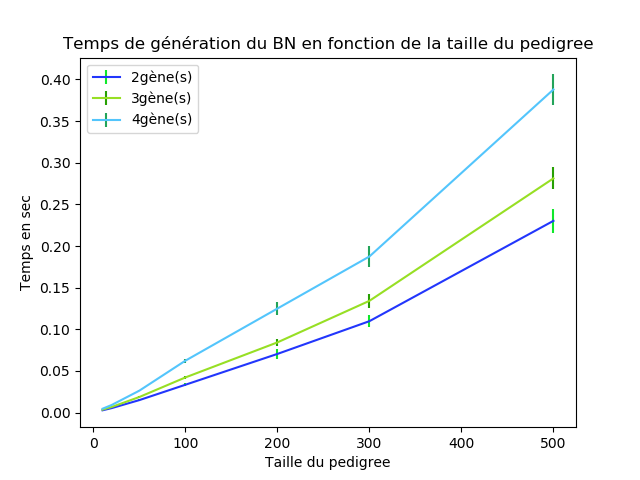
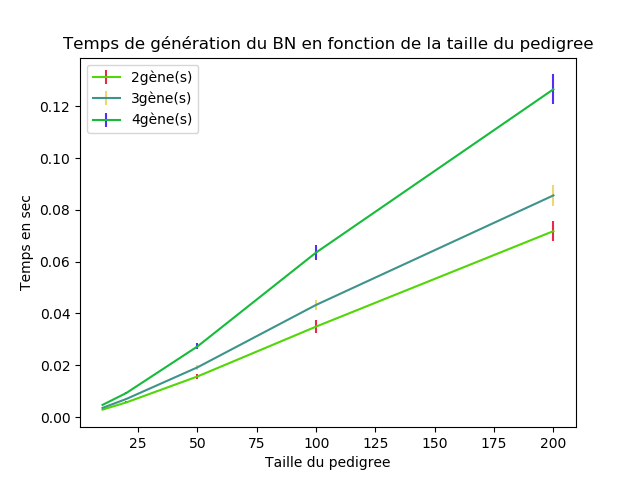
test for 2 genes

diff --git a/cplex/data/multi/read_file.py b/cplex/data/multi/read_file.py
@@ -24,33 +24,34 @@ def file_to_data(file,g):
         tab_2 = []
         tab_3 = []
         tab_4 = []
+        last_line = data[-1]
         for line in data:
-            if line == '-\n':
-                array_2 = np.array(tab_2)
-                array_3 = np.array(tab_3)
-                array_4 = np.array(tab_4)
+            if line == '-\n' or line==last_line:
+                if len(tab_2) != 0 and len(tab_3) != 0 and len(tab_4) != 0:
+                    array_2 = np.array(tab_2)
+                    array_3 = np.array(tab_3)
+                    array_4 = np.array(tab_4)
 
-                mean_res[2].append(array_2.mean())
-                mean_res[3].append(array_3.mean())
-                mean_res[4].append(array_4.mean())
+                    mean_res[2].append(array_2.mean())
+                    mean_res[3].append(array_3.mean())
+                    mean_res[4].append(array_4.mean())
 
-                max_res[2].append(array_2.max())
-                max_res[3].append(array_3.max())
-                max_res[4].append(array_4.max())
+                    max_res[2].append(array_2.max())
+                    max_res[3].append(array_3.max())
+                    max_res[4].append(array_4.max())
 
-                min_res[2].append(array_2.min())
-                min_res[3].append(array_3.min())
-                min_res[4].append(array_4.min())
+                    min_res[2].append(array_2.min())
+                    min_res[3].append(array_3.min())
+                    min_res[4].append(array_4.min())
 
-                errorValues_res[2].append(array_2.std())
-                errorValues_res[3].append(array_3.std())
-                errorValues_res[4].append(array_4.std())
+                    errorValues_res[2].append(array_2.std())
+                    errorValues_res[3].append(array_3.std())
+                    errorValues_res[4].append(array_4.std())
 
-                tab_2 = []
-                tab_3 = []
-                tab_4 = []
+                    tab_2 = []
+                    tab_3 = []
+                    tab_4 = []
 
-                print('ok je reconnais')
             else:
                 occ,time,gene = line.split('\t')
                 print(gene)
@@ -65,34 +66,68 @@ def file_to_data(file,g):
 
     return mean_res,max_res,min_res,errorValues_res
 
-mean_res,max_res,min_res,errorValues_res = file_to_data('./data_bn', 4)
-f1 = plt.figure(1)
-legende = []
+#mean_res,max_res,min_res,errorValues_res = file_to_data('./data_bn', 4)
+#mean_res,max_res,min_res,errorValues_res = file_to_data('/home/valentin/Documents/Stage/backup/multi/Nouveau dossier/data_bn', 4)
+# f1 = plt.figure(1)
+# legende = []
+#
+# for i in range(2,g+1):
+#     c = (random.random(), random.random(), random.random())
+#     ec = (random.random(),random.random(),random.random())
+#     plt.errorbar(nb_people, mean_res[i], yerr = errorValues_res[i], ecolor=ec,color=c)
+#     legende.append(f'{i}gène(s)')
+# plt.legend(legende)
+# plt.title('Temps de génération du BN en fonction de la taille du pedigree')
+# plt.xlabel('Taille du pedigree')
+# plt.ylabel('Temps en sec')
+# plt.savefig('./Temps de génération du BN en fonction de la taille du pedigree avec ecart-type')
+# #plt.savefig('/home/valentin/Documents/Stage/backup/multi/Nouveau dossier/Temps de génération du BN en fonction de la taille du pedigree avec ecart-type')
+# f1.show()
+#
+# mean_res,max_res,min_res,errorValues_res = file_to_data('./data_inf', 4)
+# #mean_res,max_res,min_res,errorValues_res = file_to_data('/home/valentin/Documents/Stage/backup/multi/Nouveau dossier/data_inf', 4)
+# f2 = plt.figure(1)
+# legende = []
+# for i in range(2,g+1):
+#     c = (random.random(), random.random(), random.random())
+#     ec = (random.random(),random.random(),random.random())
+#     plt.errorbar(nb_people, mean_res[i], yerr = errorValues_res[i], ecolor=ec,color=c)
+#     legende.append(f'{i}gène(s)')
+# plt.legend(legende)
+# plt.title('Calcul d\'inférence multi-allélique en fonction du pedigree avec Lazy')
+# plt.xlabel('Taille du pedigree')
+# plt.ylabel('Temps en sec')
+# plt.savefig('./Calcul d\'inférence multi-allélique avec Lazy')
+# #plt.savefig('/home/valentin/Documents/Stage/backup/multi/Nouveau dossier/Calcul d\'inférence multi-allélique avec Lazy')
+# f2.show()
 
+
+#mean_res,max_res,min_res,errorValues_res = file_to_data('./data_bn', 4)
+mean_res,max_res,min_res,errorValues_res = file_to_data('/home/valentin/Documents/Stage/backup/multi/Nouveau dossier/data_bn', 4)
 for i in range(2,g+1):
-    c = (random.random(), random.random(), random.random())
-    ec = (random.random(),random.random(),random.random())
-    plt.errorbar(nb_people, mean_res[i], yerr = errorValues_res[i], ecolor=ec,color=c)
-    legende.append(f'{i}gène(s)')
-plt.legend(legende)
-plt.title('Temps de génération du BN en fonction de la taille du pedigree')
-plt.xlabel('Taille du pedigree')
-plt.ylabel('Temps en sec')
-plt.savefig('./Temps de génération du BN en fonction de la taille du pedigree avec ecart-type')
-f1.show()
+    plt.figure()
+    plt.plot(nb_people, mean_res[i], label='mean')
+    plt.plot(nb_people, max_res[i], label='max')
+    plt.plot(nb_people, min_res[i], label='min')
+    plt.legend(['mean', 'max', 'min'])
+    plt.title(f'Temps de génération du BN en fonction du pedigree avec {i} gènes')
+    plt.xlabel('Taille du pedigree')
+    plt.ylabel('Temps en sec')
+    plt.savefig(f'./Temps de génération du BN multi-allélique en fonction du pedigree avec {i} gènes')
+    plt.savefig(f'/home/valentin/Documents/Stage/backup/multi/Nouveau dossier/Temps de génération du BN multi-allélique en fonction du pedigree avec {i} gènes')
+    plt.show()
 
-mean_res,max_res,min_res,errorValues_res = file_to_data('./data_inf', 4)
-f2 = plt.figure(1)
-legende = []
+#mean_res,max_res,min_res,errorValues_res = file_to_data('./data_inf', 4)
+mean_res,max_res,min_res,errorValues_res = file_to_data('/home/valentin/Documents/Stage/backup/multi/Nouveau dossier/data_inf', 4)
 for i in range(2,g+1):
-    c = (random.random(), random.random(), random.random())
-    ec = (random.random(),random.random(),random.random())
-    plt.errorbar(nb_people, mean_res[i], yerr = errorValues_res[i], ecolor=ec,color=c)
-    legende.append(f'{i}gène(s)')
-plt.legend(legende)
-plt.title('Calcul d\'inférence multi-allélique en fonction du pedigree avec LBP')
-plt.xlabel('Taille du pedigree')
-plt.ylabel('Temps en sec')
-plt.savefig('./Calcul d\'inférence multi-allélique avec LBP')
-f2.show()
-
+    plt.figure()
+    plt.plot(nb_people, mean_res[i], label='mean')
+    plt.plot(nb_people, max_res[i], label='max')
+    plt.plot(nb_people, min_res[i], label='min')
+    plt.legend(['mean', 'max', 'min'])
+    plt.title(f'Calcul d\'inférence multi-allélique en fonction du pedigree avec {i} gènes')
+    plt.xlabel('Taille du pedigree')
+    plt.ylabel('Temps en sec')
+    #plt.savefig(f'./Calcul d\'inférence multi-allélique avec {i} gènes')
+    plt.savefig(f'/home/valentin/Documents/Stage/backup/multi/Nouveau dossier/Calcul d\'inférence multi-allélique avec {i} gènes')
+    plt.show()

diff --git a/cplex/multi/cplex_mutli.py b/cplex/multi/cplex_mutli.py
@@ -17,7 +17,7 @@ nb_Gen_Max = [3,3,4,4,4,4,4,5,5,6,6,6,6,7]
 
 nb_Gen_Min = [math.ceil(x/2) for x in nb_Gen_Max]
 cl = 3
-gene = 4
+gene = 2
 distance = [0.8,0.7,0.5]
 centimorgans = [0.295797287184, 0.296353882133, 0.299343592142, 0.59]
 
@@ -163,8 +163,8 @@ final.close()
 #     plt.errorbar(nb_people, mean_inf[i], yerr = errorValues_inf[i], ecolor=ec,color=c)
 #     legende.append(f'{i}gène(s)')
 # plt.legend(legende)
-# plt.title('Calcul d\'inférence multi-allélique en fonction du pedigree avec LBP')
+# plt.title('Calcul d\'inférence multi-allélique en fonction du pedigree avec Lazy')
 # plt.xlabel('Taille du pedigree')
 # plt.ylabel('Temps en sec')
-# plt.savefig('./figure/Calcul d\'inférence multi-allélique avec LBP')
+# plt.savefig('./figure/Calcul d\'inférence multi-allélique avec Lazy')
 # #f2.show()
